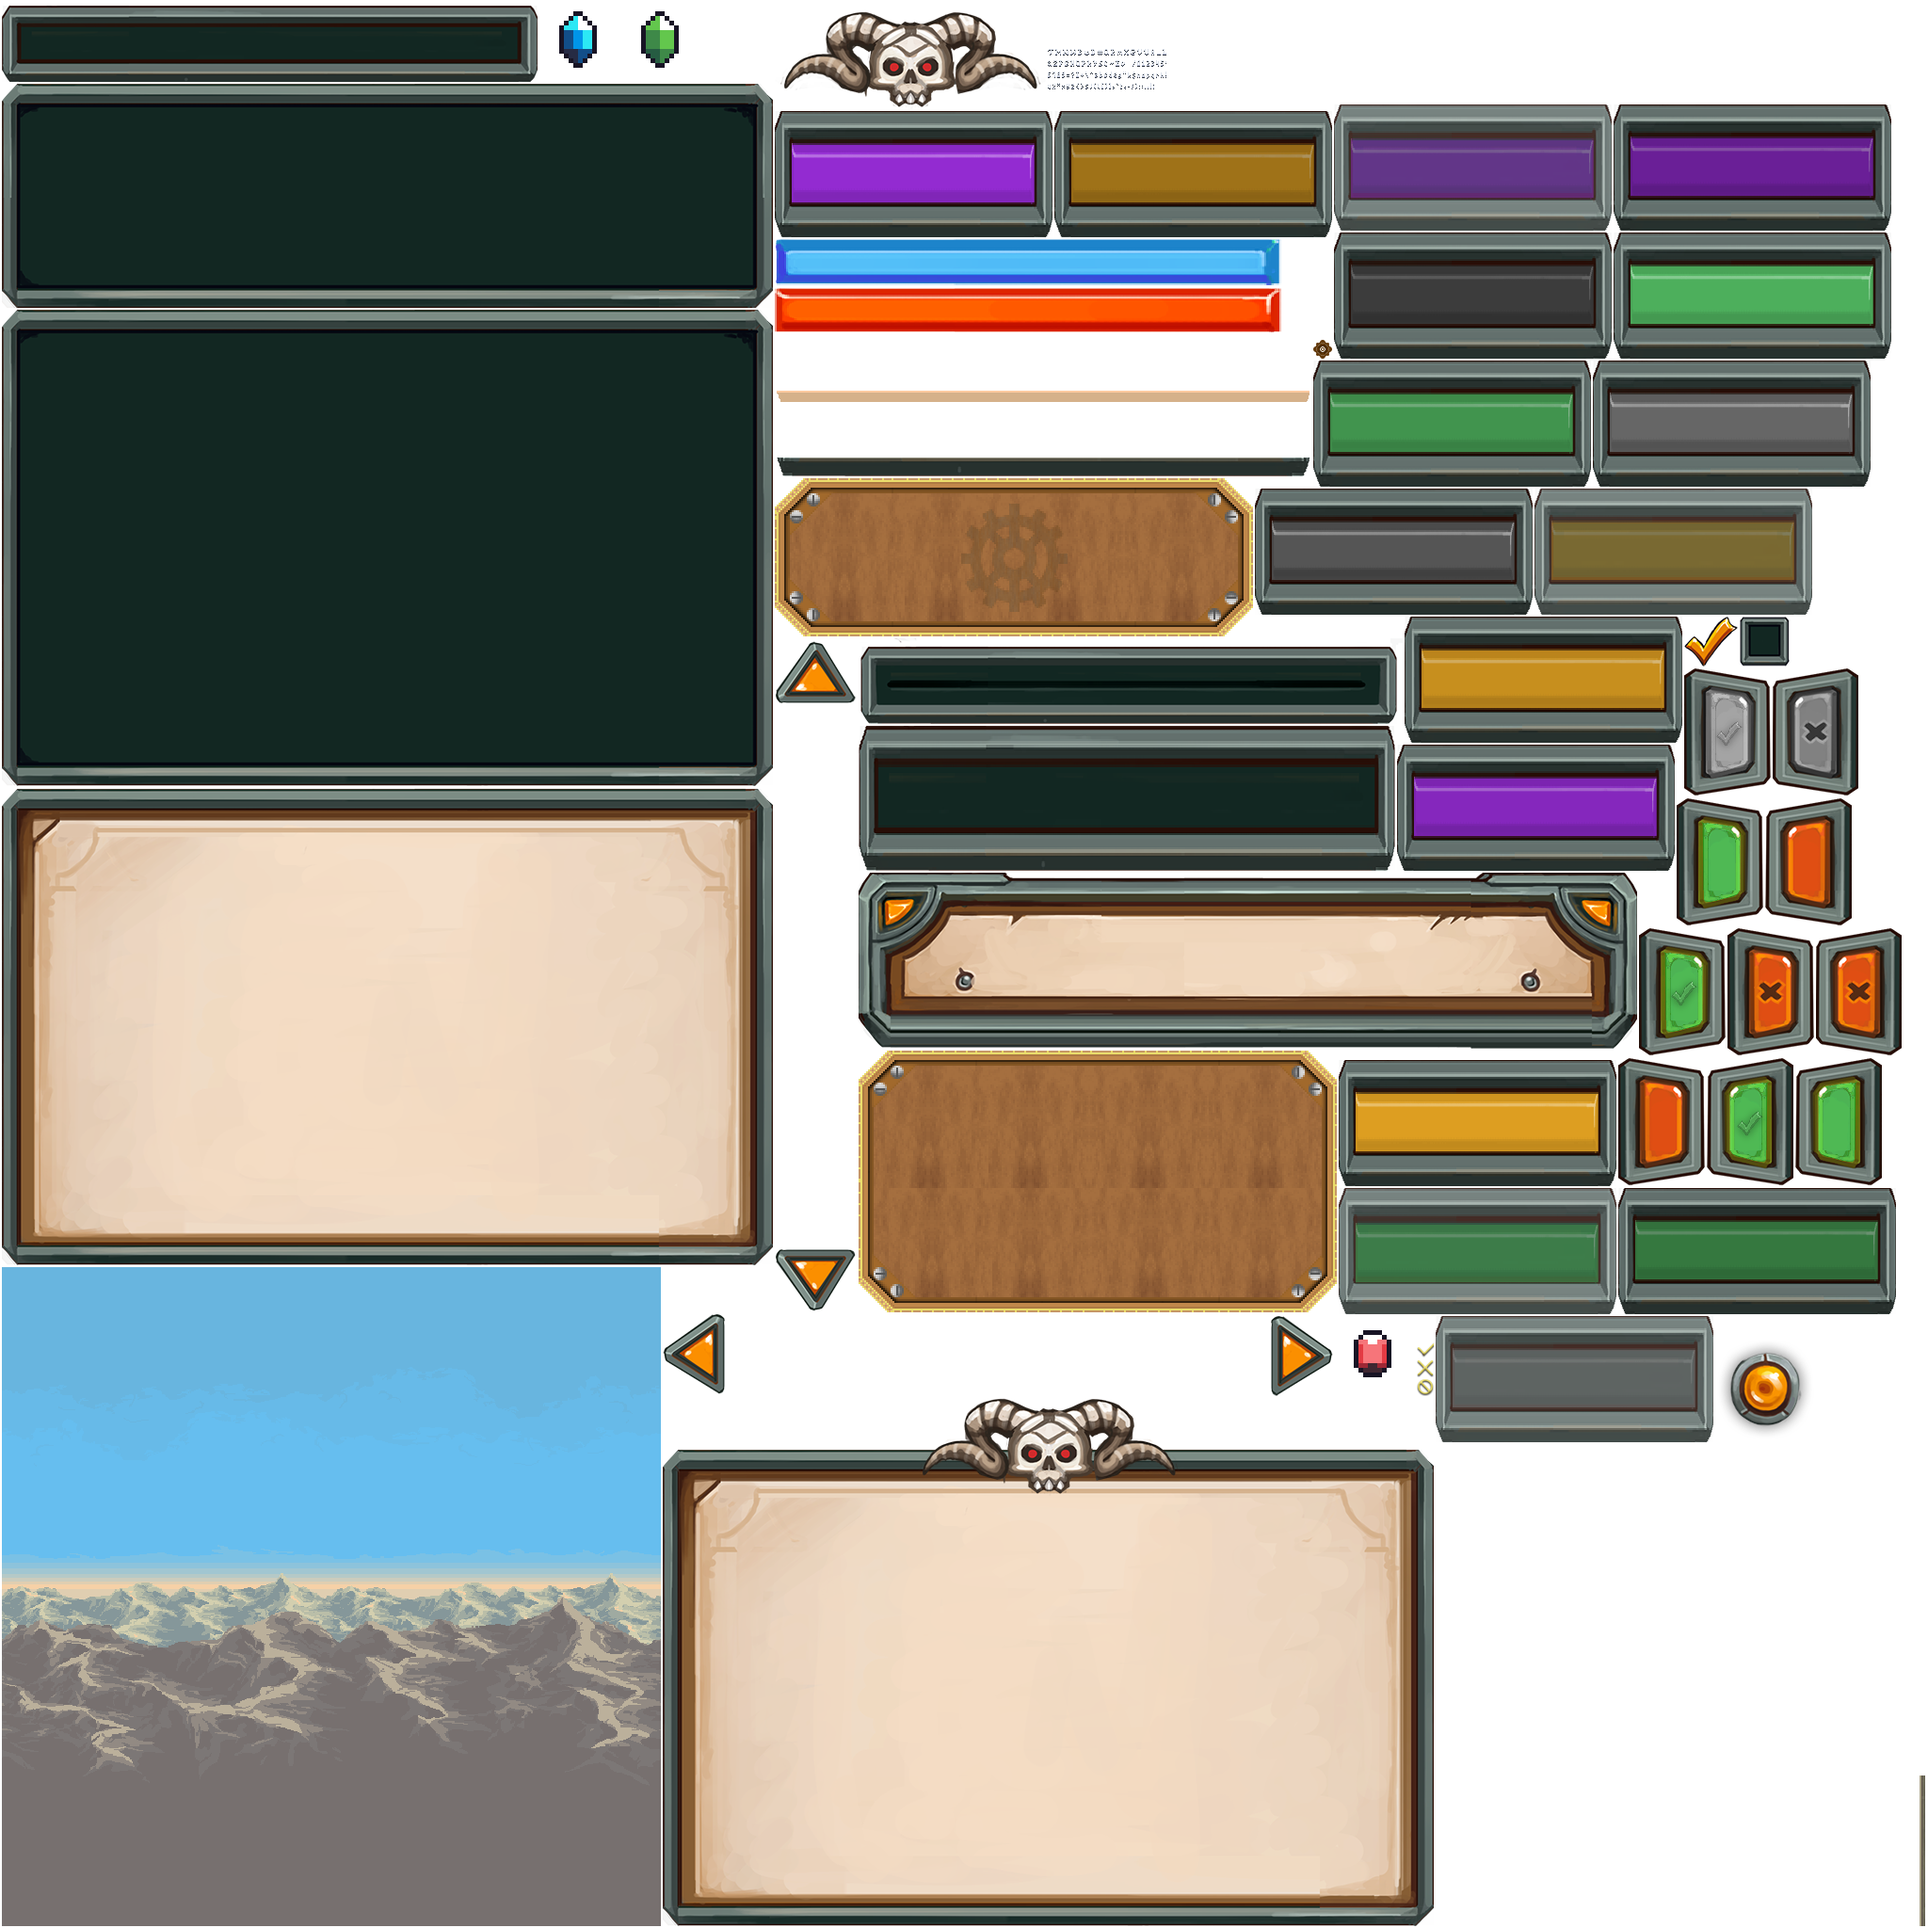
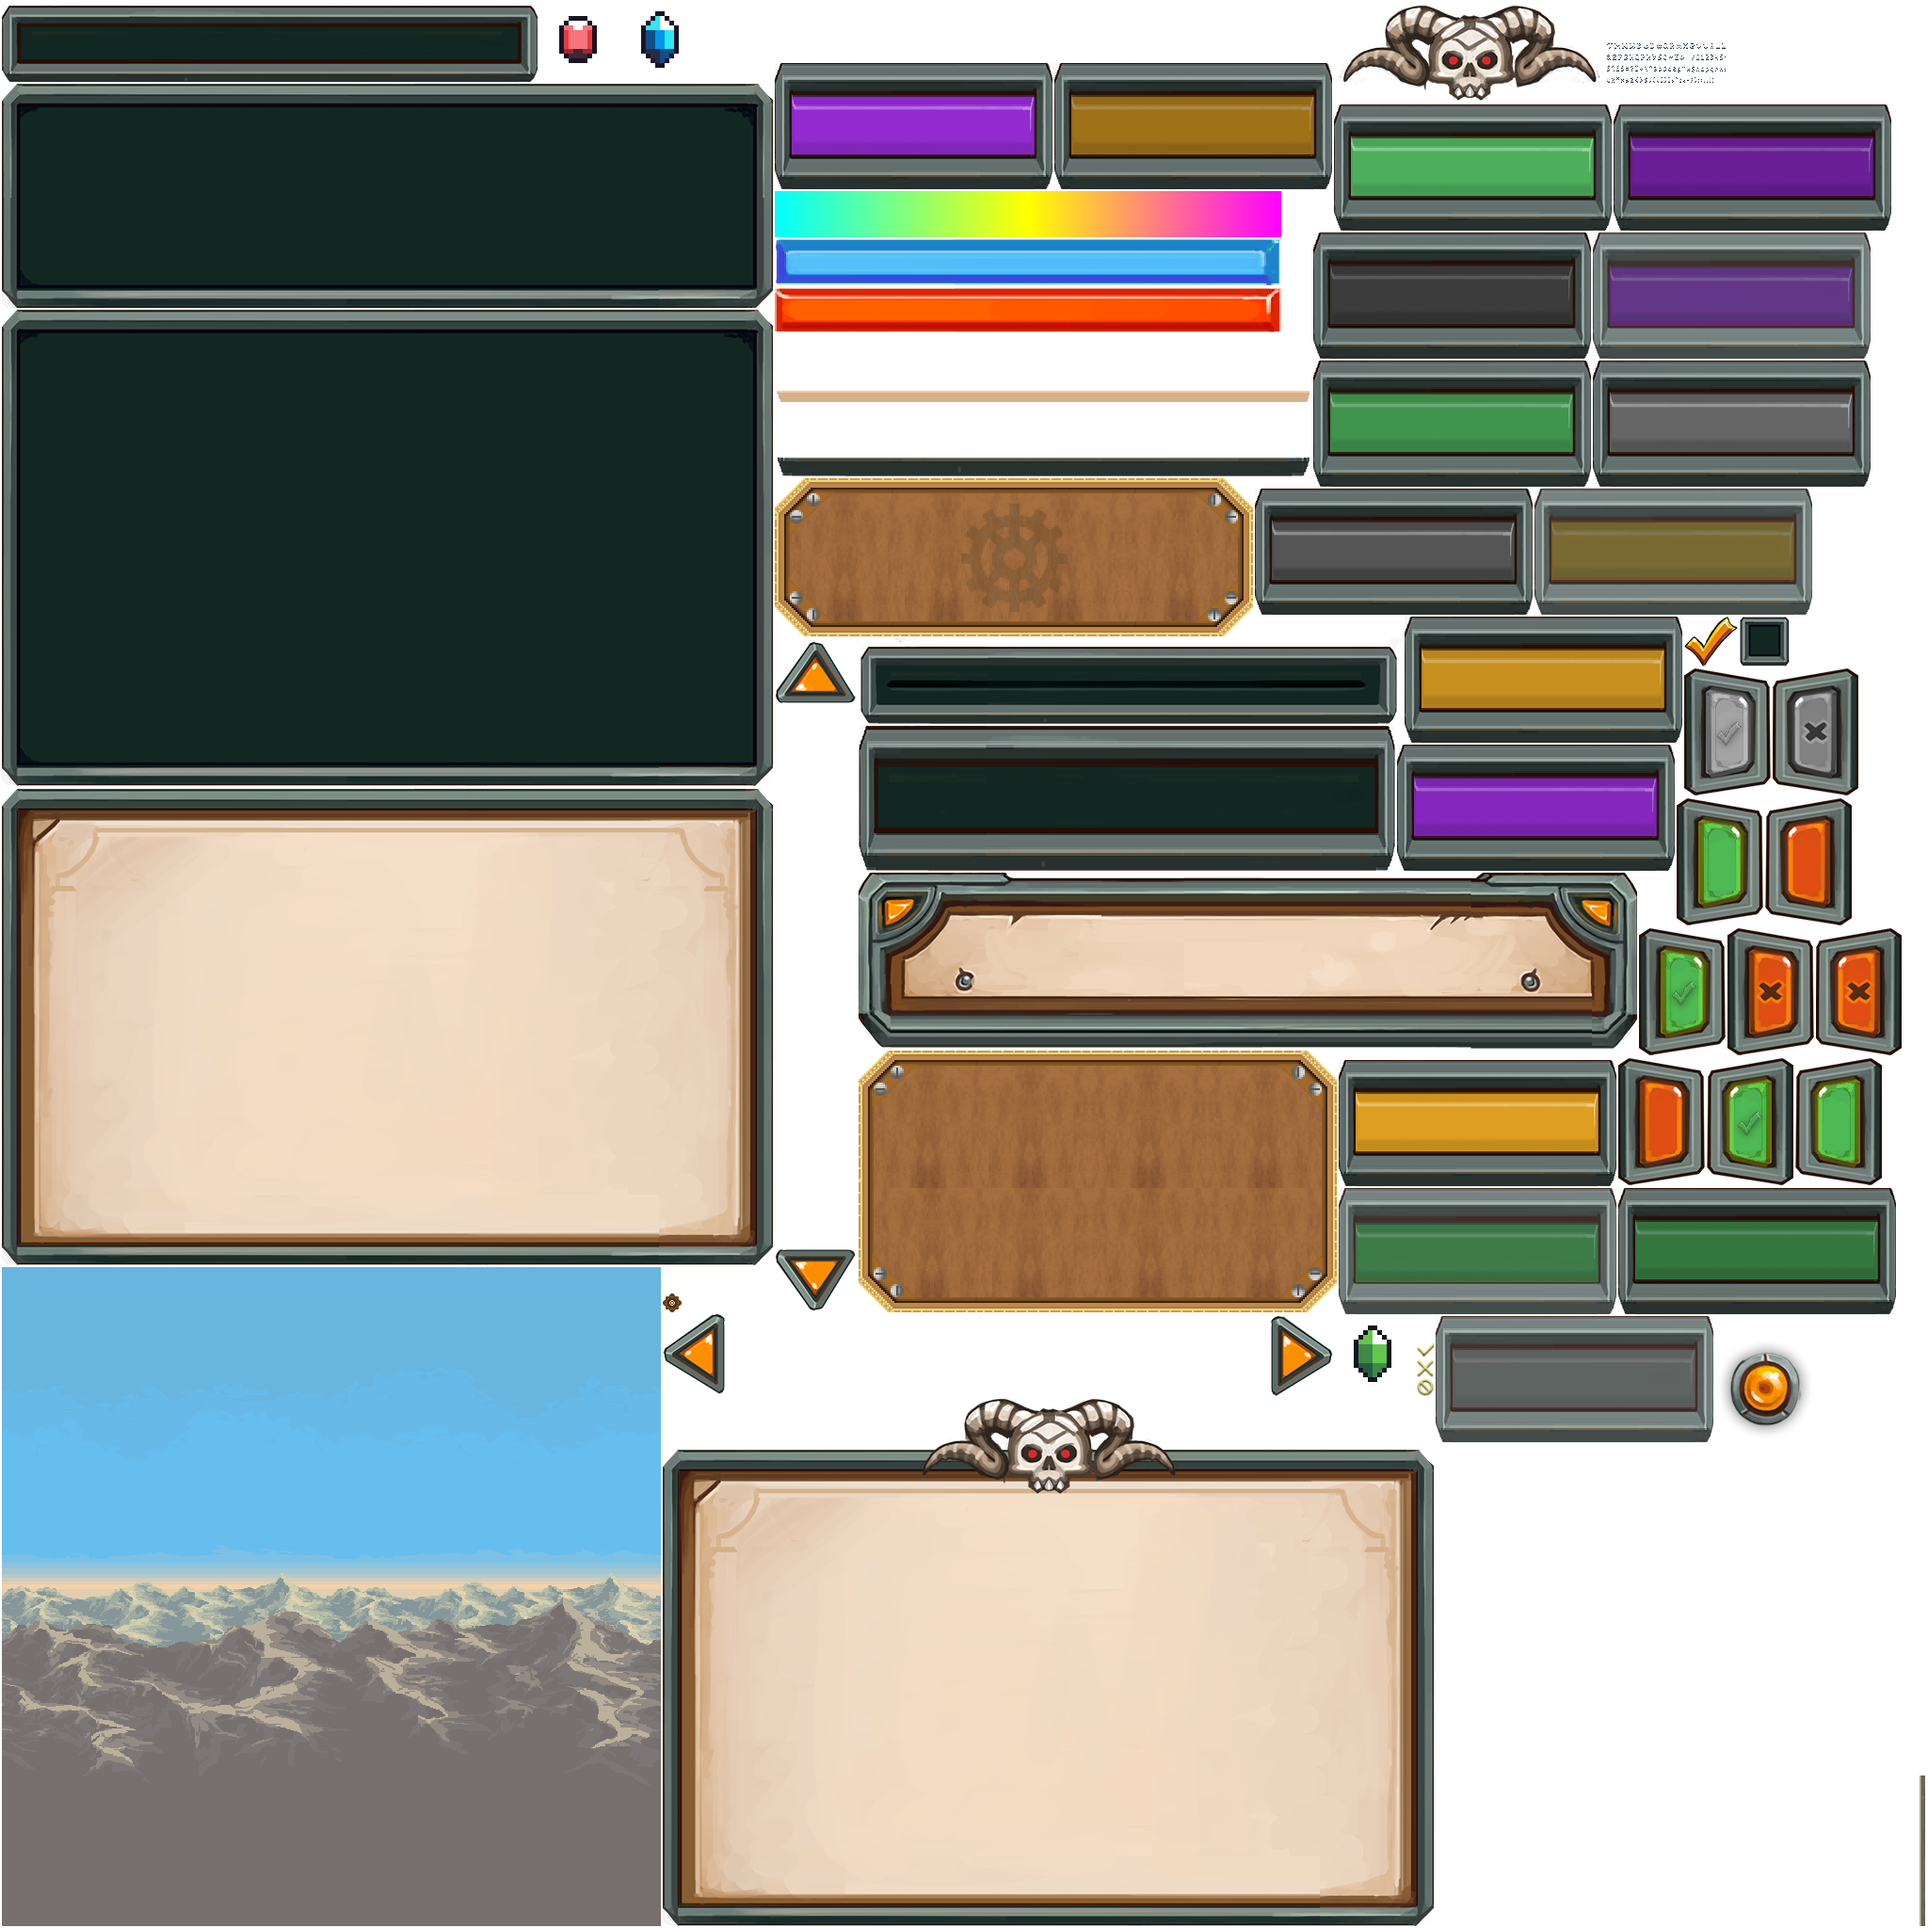
Implement LeaderBoard and BeardScale widget

Changed region(s): [[0.375, 0.0, 1.0, 0.1875], [0.2812, 0.0, 0.3438, 0.0312], [0.6875, 0.6875, 0.7188, 0.7188]]

diff --git a/core/src/main/kotlin/no/ntnu/beardblaster/screen/LeaderBoardScreen.kt b/core/src/main/kotlin/no/ntnu/beardblaster/screen/LeaderBoardScreen.kt
@@ -4,20 +4,39 @@ import com.badlogic.gdx.graphics.OrthographicCamera
 import com.badlogic.gdx.graphics.g2d.SpriteBatch
 import com.badlogic.gdx.scenes.scene2d.ui.Table
 import com.badlogic.gdx.scenes.scene2d.ui.TextButton
+import com.badlogic.gdx.utils.Align
 import kotlinx.coroutines.launch
 import ktx.actors.onClick
 import ktx.assets.async.AssetStorage
 import ktx.async.KtxAsync
+import ktx.log.debug
 import ktx.log.logger
 import ktx.scene2d.scene2d
+import ktx.scene2d.scrollPane
 import ktx.scene2d.table
 import ktx.scene2d.textButton
 import no.ntnu.beardblaster.BeardBlasterGame
+import no.ntnu.beardblaster.WORLD_HEIGHT
+import no.ntnu.beardblaster.WORLD_WIDTH
 import no.ntnu.beardblaster.assets.Nls
 import no.ntnu.beardblaster.commons.leaderboard.BeardScore
 import no.ntnu.beardblaster.leaderboard.LeaderBoardHandler
 import no.ntnu.beardblaster.ui.*
 import java.util.*
+
+// XXX Dummy data for testing
+private val scores = listOf(
+    BeardScore(105f, "Merlin"),
+    BeardScore(95f, "Gandalf the Gray"),
+    BeardScore(85f, "Saruman the White"),
+    BeardScore(75f, "Albus Dumbeldore"),
+    BeardScore(65f, "Khadgar"),
+    BeardScore(50f, "Grigori Rasputin"),
+    BeardScore(40f, "Jaffar"),
+    BeardScore(25f, "Diana Bishop"),
+    BeardScore(15f, "Hagrid"),
+    BeardScore(5f, "Sirius Black"),
+)
 
 private val LOG = logger<LeaderBoardScreen>()
 
@@ -27,52 +46,65 @@ class LeaderBoardScreen(
     assets: AssetStorage,
     camera: OrthographicCamera,
 ) : BaseScreen(game, batch, assets, camera), Observer {
-    private lateinit var closeBtn: TextButton
-    private var leaderBoardHandler: LeaderBoardHandler = LeaderBoardHandler()
+    private val leaderBoardHandler = LeaderBoardHandler()
     private lateinit var table: Table
-    private lateinit var leaderBoardListTable: Table
+    private lateinit var backBtn: TextButton
+    private val leaderBoard = LeaderBoard()
+    private val beardScale = BeardScale()
 
-    override fun initScreen() {
-        leaderBoardListTable = scene2d.table {
-        }
-
-        leaderBoardHandler.addObserver(this)
-        KtxAsync.launch {
-            leaderBoardHandler.getTopTenBeards()
-        }
-        closeBtn = scene2d.textButton(Nls.close())
-
-        table = fullSizeTable(30f).apply {
-            background = skin[Image.Background]
-            add(headingLabel(Nls.leaderBeard()))
-            row()
-            add(leaderBoardListTable)
-            row()
-            add(closeBtn)
-        }
-
-        stage.addActor(table)
+    companion object {
+        const val SCREEN_PADDING = 30f
     }
 
-    override fun update(delta: Float) {}
+    override fun initComponents() {
+        backBtn = scene2d.textButton(Nls.back()) {
+            setPosition(SCREEN_PADDING, WORLD_HEIGHT - SCREEN_PADDING - height)
+        }
+        table = scene2d.table {
+            background = skin[Image.Background]
+            pad(SCREEN_PADDING)
+            defaults().space(SCREEN_PADDING)
+            setBounds(0f, 0f, WORLD_WIDTH, WORLD_HEIGHT)
+            columnDefaults(0).width(WORLD_WIDTH / 2)
+            add(headingLabel(Nls.leaderBeard()))
+            row()
+            add(scene2d.table {
+                background = skin[Image.ModalDark]
+                pad(50f)
+                add(scene2d.scrollPane {
+                    addActor(leaderBoard)
+                }).expand().growX().align(Align.topRight)
+            }).grow()
+            row()
+            add(beardScale)
+        }
+    }
+
+    override fun initScreen() {
+        for (score in scores) {
+            leaderBoard.addScore(score)
+        }
+        //leaderBoardHandler.addObserver(this)
+        //KtxAsync.launch {
+        //    leaderBoardHandler.getTopTenBeards()
+        //}
+        stage.addActor(table)
+        stage.addActor(backBtn)
+    }
 
     override fun setBtnEventListeners() {
-        closeBtn.onClick {
+        backBtn.onClick {
             game.setScreen<MenuScreen>()
         }
     }
 
-    override fun update(o: Observable?, arg: Any?) {
+    override fun update(delta: Float) {}
+
+    override fun update(o: Observable, arg: Any?) {
         if (o is LeaderBoardHandler) {
-            leaderBoardListTable.clear()
+            leaderBoard.clear()
             for (score: BeardScore in o.topTen) {
-                leaderBoardListTable.add(
-                    bodyLabel(
-                        "${score.displayName} - ${score.beardLength} cm",
-                        labelStyle = LabelStyle.BodyOutlined.name
-                    )
-                )
-                leaderBoardListTable.row()
+                leaderBoard.addScore(score)
             }
         }
     }

diff --git a/core/src/main/kotlin/no/ntnu/beardblaster/ui/LeaderBoard.kt b/core/src/main/kotlin/no/ntnu/beardblaster/ui/LeaderBoard.kt
@@ -1,0 +1,63 @@
+package no.ntnu.beardblaster.ui
+
+import com.badlogic.gdx.graphics.Color
+import com.badlogic.gdx.scenes.scene2d.ui.Label
+import com.badlogic.gdx.scenes.scene2d.ui.Table
+import com.badlogic.gdx.utils.Align
+import ktx.log.debug
+import ktx.log.logger
+import ktx.scene2d.Scene2DSkin
+import ktx.scene2d.label
+import ktx.scene2d.scene2d
+import no.ntnu.beardblaster.commons.leaderboard.BeardScore
+
+private val log = logger<LeaderBoard>()
+
+class LeaderBoard : Table(Scene2DSkin.defaultSkin) {
+    init {
+        defaults().space(10f)
+        columnDefaults(0).align(Align.left).expandX()
+        columnDefaults(1).align(Align.right)
+    }
+
+    fun addScore(score: BeardScore) {
+        addScore(score.displayName, score.beardLength)
+    }
+
+    fun addScore(name: String, length: Float) {
+        add(scoreLabel(name).apply { wrap = true })
+        add(scoreLabel("$length cm").apply { color = getBeardColor(length) })
+        row()
+    }
+
+    private fun scoreLabel(text: String): Label {
+        return scene2d.label(text, LabelStyle.LightText.name) {
+            setFontScale(1.5f)
+        }
+    }
+
+    private fun getBeardColor(beardLength: Float): Color {
+        val frac = beardLength / 100
+        val color = when {
+            frac < 0.5 -> interpolate(Color.CYAN, Color.YELLOW, frac)
+            else -> interpolate(Color.YELLOW, Color.MAGENTA, frac)
+        }
+        log.debug { "Beard of length $beardLength ($frac) got assigned color $color." }
+        return color
+    }
+
+    private fun interpolate(start: Color, end: Color, frac: Float): Color {
+        return when {
+            frac <= 0.0 -> start
+            frac >= 1.0 -> end
+            else -> {
+                Color(
+                    start.r + (end.r - start.r) * frac,
+                    start.g + (end.g - start.g) * frac,
+                    start.b + (end.b - start.b) * frac,
+                    start.a + (end.a - start.a) * frac,
+                )
+            }
+        }
+    }
+}

diff --git a/core/src/main/kotlin/no/ntnu/beardblaster/ui/Skin.kt b/core/src/main/kotlin/no/ntnu/beardblaster/ui/Skin.kt
@@ -57,6 +57,8 @@ enum class Image(val atlasKey: String) {
     //Wizard
     HPBar("health_bar_indicator"),
     BarContainer("bar_container"),
+
+    BeardScale("beard_scale"),
 }
 
 operator fun Skin.get(image: Image): Drawable = this.getDrawable(image.atlasKey)
@@ -184,6 +186,8 @@ fun createSkin(assets: AssetStorage): Skin {
             titleFontColor = Color.BROWN
             stageBackground = dimmedBackground()
         }
+
+        scrollPane {}
     }
     return Scene2DSkin.defaultSkin
 }

diff --git a/core/src/main/kotlin/no/ntnu/beardblaster/ui/BeardScale.kt b/core/src/main/kotlin/no/ntnu/beardblaster/ui/BeardScale.kt
@@ -1,0 +1,16 @@
+package no.ntnu.beardblaster.ui
+
+import com.badlogic.gdx.scenes.scene2d.ui.Table
+import ktx.scene2d.Scene2DSkin
+import ktx.scene2d.image
+import ktx.scene2d.scene2d
+
+class BeardScale : Table(Scene2DSkin.defaultSkin) {
+    private val scale = scene2d.image(skin[Image.BeardScale])
+
+    init {
+        background = skin[Image.BarContainer]
+        pad(25f)
+        add(scale).growX()
+    }
+}

diff --git a/core/src/main/kotlin/no/ntnu/beardblaster/assets/Nls.kt b/core/src/main/kotlin/no/ntnu/beardblaster/assets/Nls.kt
@@ -9,6 +9,7 @@ import ktx.i18n.BundleLine
 enum class Nls : BundleLine {
     appName,
     attack,
+    back,
     close,
     confirmPassword,
     createGame,
